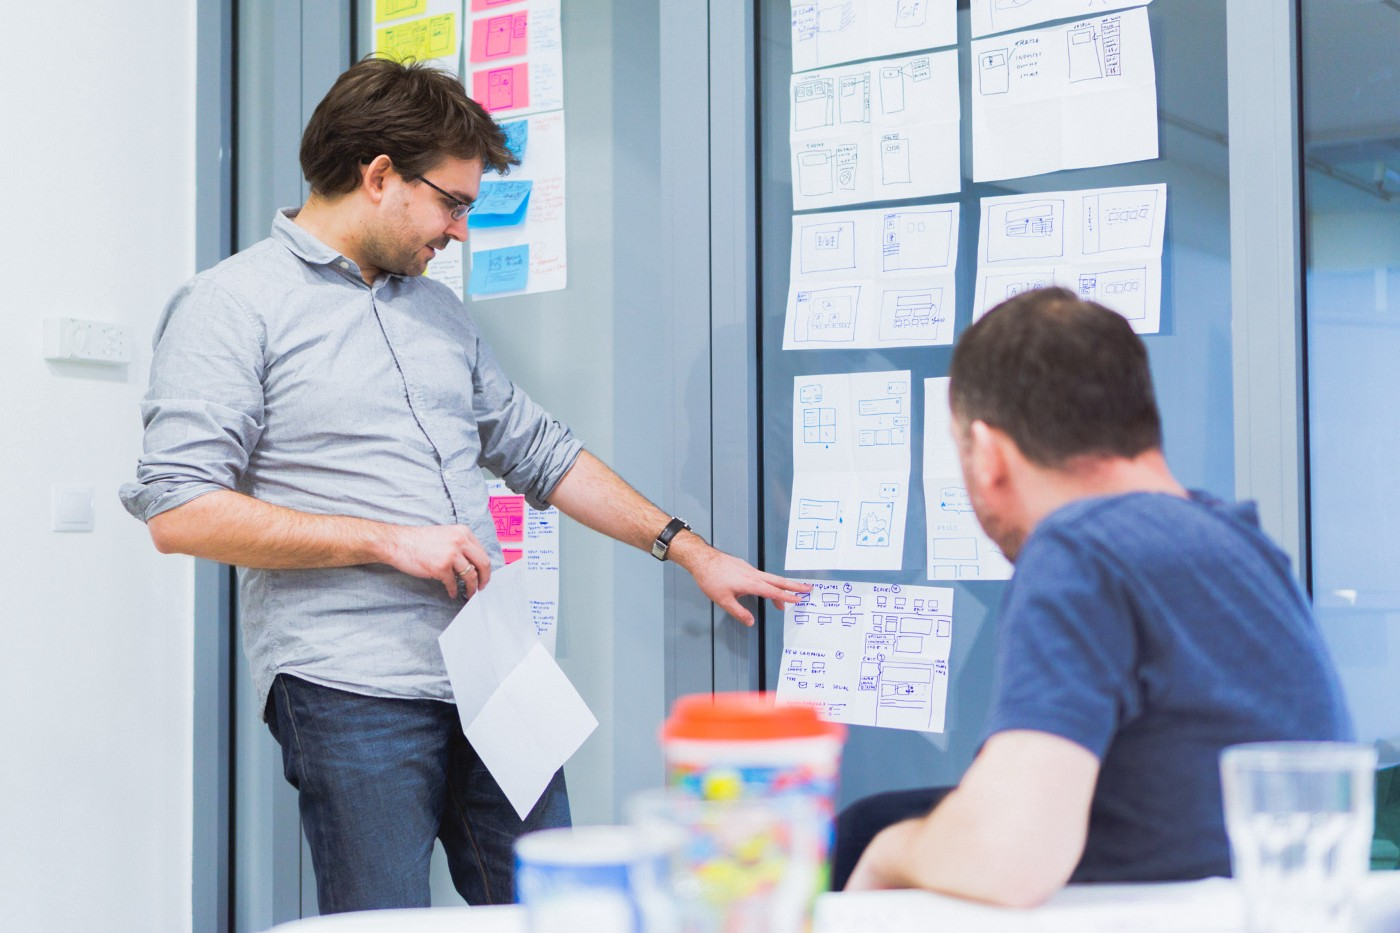
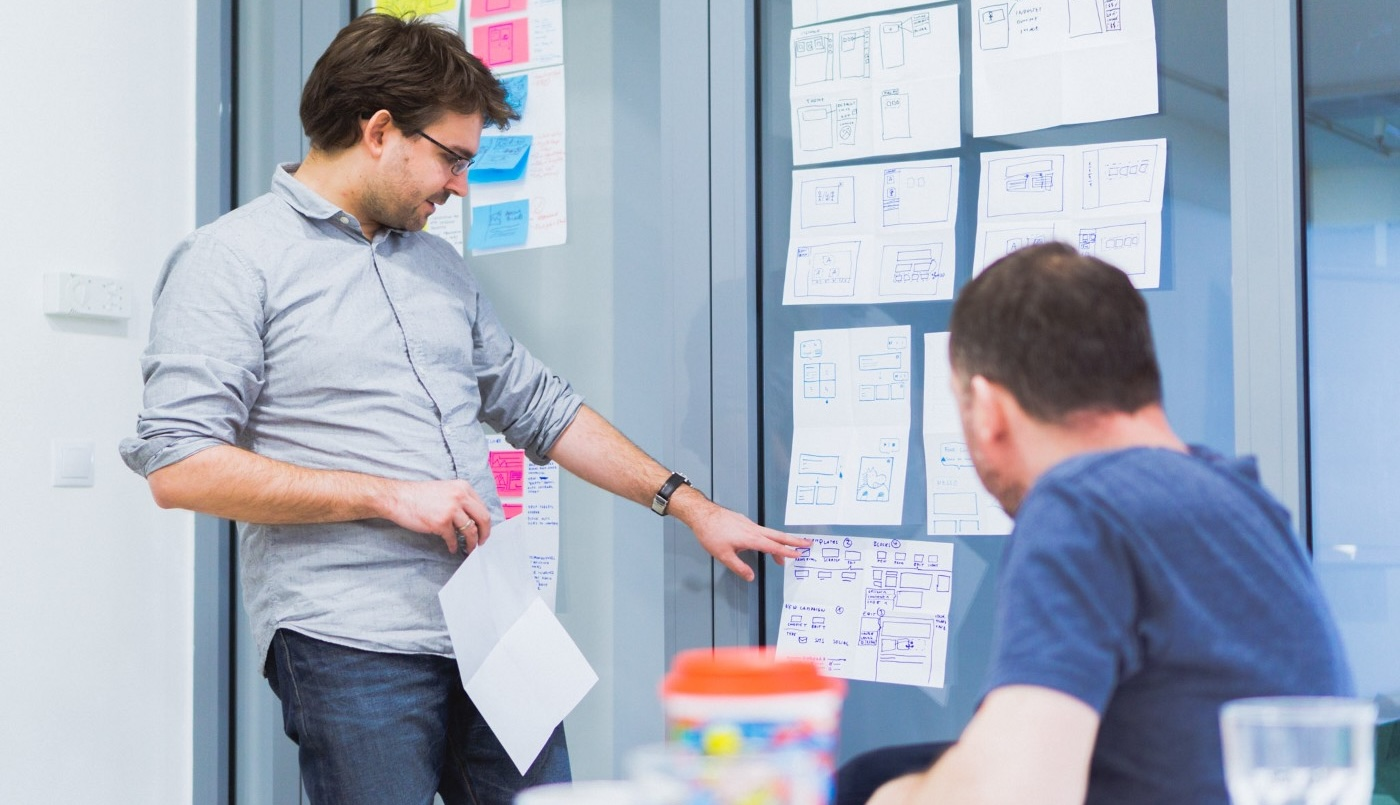
update images

diff --git a/_portfolio/2015-designing-a-ux-team.md b/_portfolio/2015-designing-a-ux-team.md
@@ -14,22 +14,12 @@ sidebar:
     text: "Establish and lead a UX team of designers and researchers."
   - title: "<br><br>"
     text: "[Back to the portfolio](/portfolio)"    
-gallery:
-  - url: /assets/images/portfolio/2015-designing-a-ux-team-1.jpg
-    image_path: assets/images/portfolio/2015-designing-a-ux-team-1.jpg
-    alt: "emarsys ux team 2017"
-  - url: /assets/images/portfolio/2015-designing-a-ux-team-2.jpeg
-    image_path: assets/images/portfolio/2015-designing-a-ux-team-2.jpeg
-    alt: "working with design thinking methods"
-  - url: /assets/images/portfolio/2015-designing-a-ux-team-3.png
-    image_path: assets/images/portfolio/2015-designing-a-ux-team-3.png
-    alt: "emarsys ux team intro video 2015"
 classes: wide
 ---
 
 I joined Emarsys with a strategic mandate: to not only to **build and lead the new UX team**, but to **establish a design practice** and fully integrate it into the product development process. With no dedicated UX team previously, this was a significant challenge that required both a strong vision and a hands-on approach.
 
-{% include gallery caption="People are the most important part of a great UX team" %}
+{% include figure image_path="assets/images/portfolio/2015-designing-a-ux-team-3.png" caption="The Emarsys UX team in 2015 looking for new members" %}
 
 My approach to **building the right team** was guided by three core principles:
 
@@ -37,6 +27,10 @@ My approach to **building the right team** was guided by three core principles:
 2. **Researcher-designer pairs:** I established this model to ensure our design work was always grounded in deep user understanding and a true collaborative partnership.
 3. **Embedded UX people:** We integrated designers and researchers directly with developer and product teams. This empowered them to act as strategic partners and amplified their impact across the organization ([the talk I did](https://prezi.com/rit0h4vvzql8/lean-ux-in-product-teams/) when introducing this).
 
-Through a disciplined approach to hiring and professional growth, we built a team of [16 people](https://blog.craftlab.hu/hiring-ux-people-at-emarsys-e12f5bfdd5fb). Together, we introduced a suite of practices that became the foundation of our work: **discovery and research** to make better product decisions (like frequent interviews and [design sprints](https://medium.com/emarsys-design/running-the-design-sprint-at-emarsys-4b40a4cecc47)), **visioning tools** like design principles and briefs, and **systems thinking** like our [design system]({% link _portfolio/2016-building-a-design-system.md %}) and [user story maps](https://blog.craftlab.hu/drawing-houses-fb6893facfbe) to **build coherent user journeys** across the product.
+{% include figure image_path="assets/images/portfolio/2015-designing-a-ux-team-2.jpeg" caption="Working with design thinking methods with partners from product ang engineering" %}
+
+Through a disciplined approach to hiring and professional growth, we built a team of [16 people](https://blog.craftlab.hu/hiring-ux-people-at-emarsys-e12f5bfdd5fb). Together, we introduced a suite of practices that became the foundation of our work: **discovery and research** to make better product decisions (like frequent interviews and [design sprints](https://medium.com/emarsys-design/running-the-design-sprint-at-emarsys-4b40a4cecc47)), **visioning tools** like design principles and briefs, and **systems thinking** like our [design system]({% link _portfolio/2016-building-a-design-system.md %}) and [user story maps](https://blog.craftlab.hu/drawing-houses-fb6893facfbe) to **build coherent cross-product user journeys**.
+
+{% include figure image_path="assets/images/portfolio/2015-designing-a-ux-team-1.jpg" caption="The Emarsys UX team in 2017" %}
 
 In this role, I learned that an organization is very much like a product: you have to understand the needs of your 'users' (the rest of the organization) to create the best possible solutions. This experience thaught me that **design leadership is ultimately about building the systems, teams, and culture that enable great design to thrive.**
